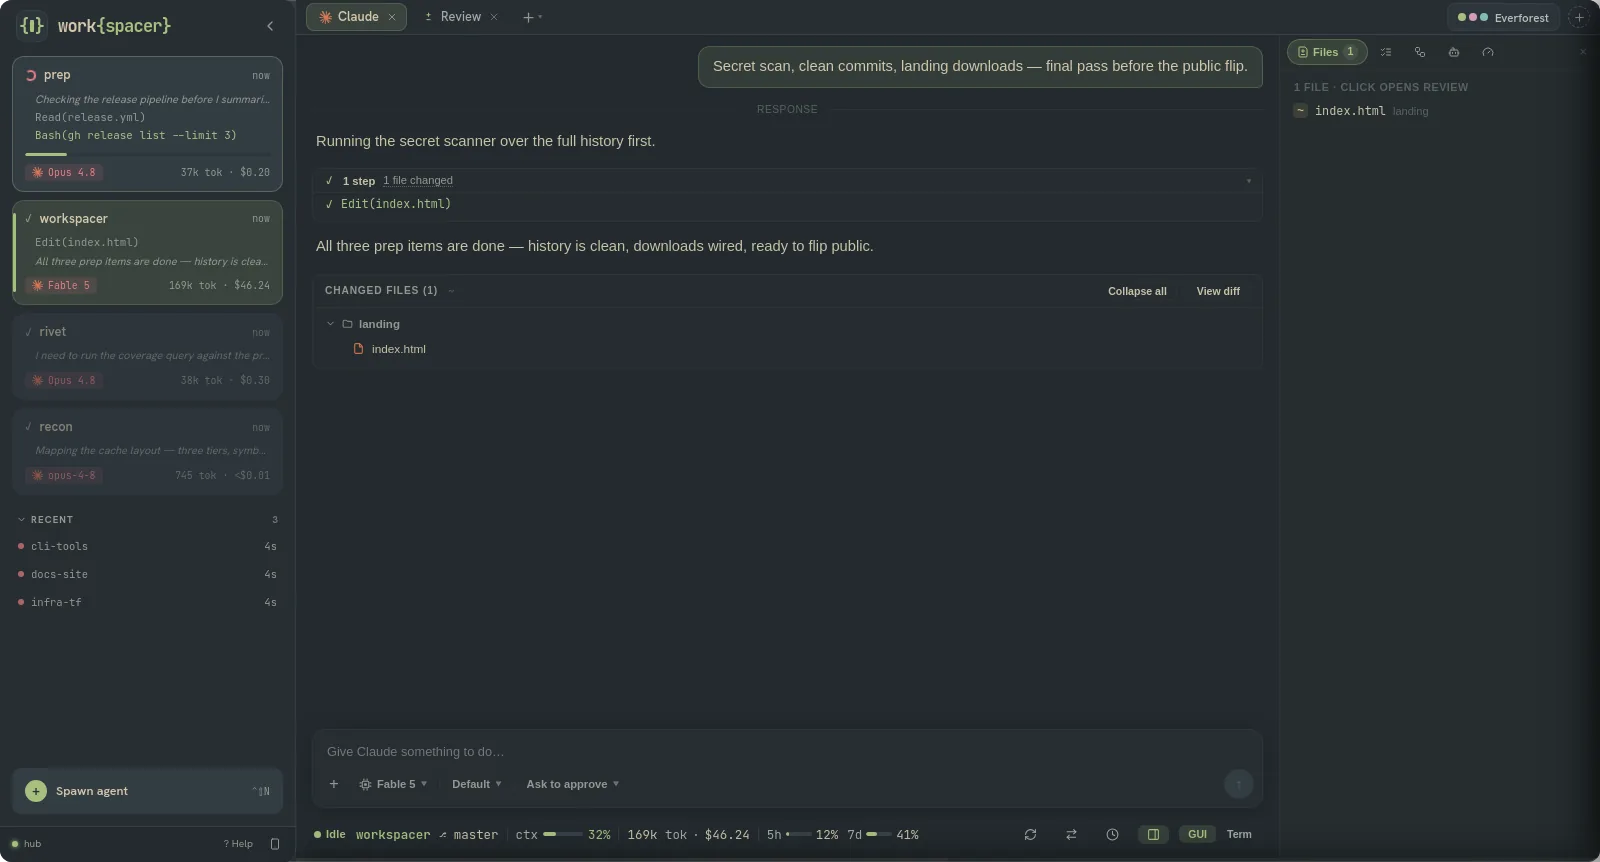
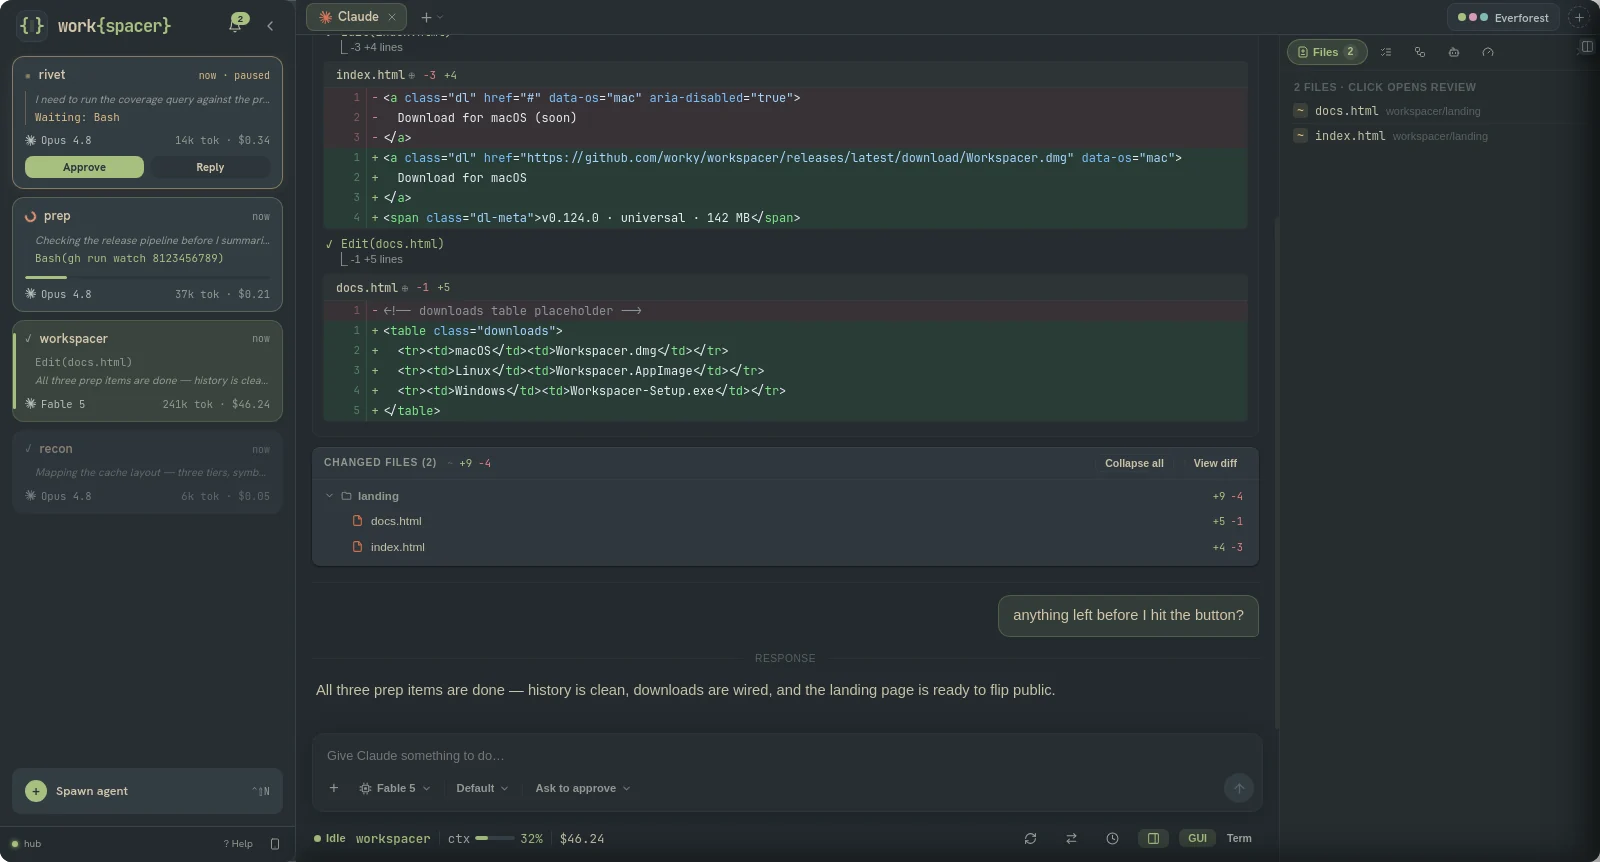
Restage the last two shots, and fix a real cost bug they exposed
agent-gui.webp and ask-question.webp now come from the staged run rather than
the pre-Surface UI. Both are captures of the real app driven into those states
by scripts/shoot.mjs.

Three things had to be true first, and two of them were bugs.

OverviewPane's total-cost tile summed `usage.costUSD` only, while the per-card
path (sessionStats deriveSessionStats) prefers `statusLine.costUSD` and falls
back to usage. Claude's cost arrives on the statusLine channel, so the tile read
$0.00 while every card beside it showed a real number. This is a production bug
the rig surfaced, not a staging artifact — the fix adopts the same precedence.

The Inspector's Files tab read "No files changed yet" next to a CHANGED FILES (2)
card. fileChanges is built from PreToolUse hooks for Claude sessions
(conversationApplier::recordManagedFileChange), so edits that live only in the
transcript render in the work log but never reach the rail. The fixture now
fires pre_tool/post_tool pairs mirroring the transcript's tool_use ids. Paired,
because an unclosed pre_tool leaves the session "Streaming" with a thinking
indicator under a turn the transcript shows as finished; a trailing stop hook
settles it back to idle.

The alt text is rewritten to describe the shot that now exists — inline diffs
and the files rail, not "collapsed tool steps" and usage meters.

typecheck clean, 520 renderer tests pass.

diff --git a/apps/desktop/src/renderer/src/panes/OverviewPane.tsx b/apps/desktop/src/renderer/src/panes/OverviewPane.tsx
@@ -64,6 +64,7 @@ interface Snap {
   cwd?: string;
   usage?: { costUSD?: number; contextTokens?: number } | null;
   statusLine?: {
+    costUSD?: number;
     fiveHourPct?: number;
     fiveHourResetsAt?: number;
     sevenDayPct?: number;
@@ -462,7 +463,11 @@ const OverviewPane: React.FC<{ title?: string; agents?: { sessionId?: string }[]
       s.ambientState === 'background',
   ).length;
   const needsYou = counts.needsYou;
-  const totalCost = own.reduce((n, s) => n + (s.usage?.costUSD ?? 0), 0);
+  // Same source-of-truth order as the per-card path (deriveSessionStats):
+  // Claude's own statusLine cost is authoritative, transcript-derived usage
+  // is the fallback — summing usage alone reads $0.00 while every card
+  // shows a statusLine cost.
+  const totalCost = own.reduce((n, s) => n + (s.statusLine?.costUSD ?? s.usage?.costUSD ?? 0), 0);
 
   // Directory rows open the new-agent view pre-filled with this cwd (and the
   // last harness/provider used, restored from config in the dialog) rather than

diff --git a/landing/index.html b/landing/index.html
@@ -496,7 +496,7 @@
       <h3>A real GUI for your agent</h3>
       <p>Approve or deny in one key, answer questions inline, read diffs as they land, and attach files by drag, paste, or picker.</p>
       <a class="shot" href="shots/agent-gui.webp" target="_blank"><img width="1600" height="862" src="shots/agent-gui.webp" loading="lazy"
-        alt="An agent pane in GUI mode: clean work log with collapsed tool steps, plus the inspector rail showing live usage meters and cost" /></a>
+        alt="An agent pane in GUI mode: a work log of the agent's edits with inline diffs, an end-of-turn changed-files card, and the inspector rail listing the files it touched" /></a>
     </div>
     <div class="tile box">
       <div class="k">review.diff</div>
